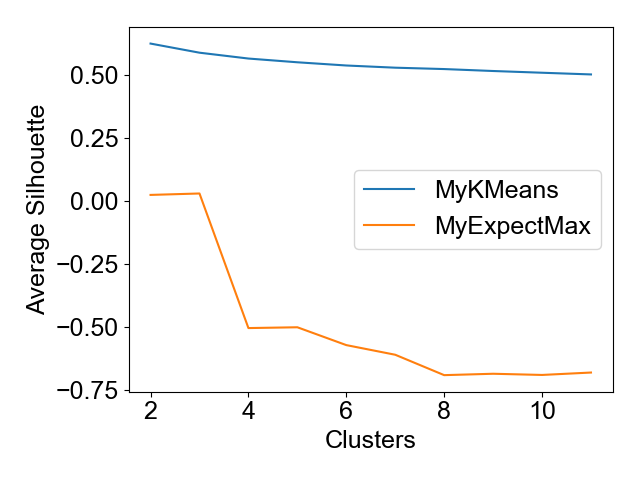
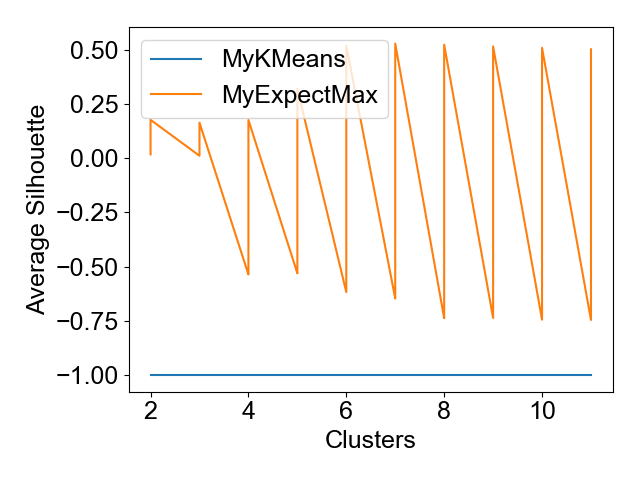
Run a bunch of cluster_std values

diff --git a/main.py b/main.py
@@ -57,12 +57,13 @@ full = pd.concat([train, test])
 y = np.array(train.loc[:,target])
 X = np.array(train.drop(target, axis=1))
 
-# X, y = make_blobs(
-#     centers=6,
-#     n_features=2,
-#     n_samples=1000,
-#     random_state=11
-# )
+#X, y = make_blobs(
+#    centers=6,
+#    n_features=2,
+#    n_samples=1000,
+#    random_state=11
+#)
+#print('score:', silhouette_score(X, y))
 
 np.random.seed(11)
 random_states = np.random.choice(range(1000), size=5, replace=False)
@@ -78,39 +79,40 @@ cluster_counts = []
 total_start_time = time.time()
 for n_clusters in range(2, 12):
     best_score = {'MyKMeans': -1, 'MyExpectMax': -1}
-#    for random_state in [372]:
-    for random_state in random_states:
-        clusterers = [
-            MyKMeans(data=X, n_clusters=n_clusters, random_state=random_state),
-            MyExpectMax(data=X, n_clusters=n_clusters, random_state=random_state)
-        ]
+    for cluster_std in [0.5, 1, 2, 5, 10, 100]:
+        for random_state in random_states:
+            clusterers = [
+#                MyKMeans(data=X, n_clusters=n_clusters, random_state=random_state),
+                MyExpectMax(data=X, n_clusters=n_clusters, random_state=random_state, cluster_std=cluster_std)
+            ]
 
-        for clusterer in clusterers:
-            start_time = time.time()
-            cluster_labels, centers, iters = clusterer.run()
-            elapsed = round(time.time() - start_time, 3)
-            score = silhouette_score(X, cluster_labels)
+            for clusterer in clusterers:
+                start_time = time.time()
+                cluster_labels, centers, iters = clusterer.run()
+                elapsed = round(time.time() - start_time, 3)
+                score = silhouette_score(X, cluster_labels)
 
-            alg = clusterer.__class__.__name__
+                alg = clusterer.__class__.__name__
 
-#            scatter_stuff(X, cluster_labels, centers, alg)
+#                scatter_stuff(X, cluster_labels, centers, alg)
 
-            if score > metrics[alg]['score'] or \
-               (score == metrics[alg]['score'] and \
-               (iters < metrics[alg]['iters'] or elapsed < metrics[alg]['elapsed'])):
-                metrics[alg]['score'] = score
-                metrics[alg]['n_clusters'] = n_clusters
-                metrics[alg]['random_state'] = random_state
-                metrics[alg]['iters'] = iters
-                metrics[alg]['elapsed'] = elapsed
-#                metrics[alg]['error'] = lowest_label_error(cluster_labels, y)
+                if score > metrics[alg]['score'] or \
+                   (score == metrics[alg]['score'] and \
+                   (iters < metrics[alg]['iters'] or elapsed < metrics[alg]['elapsed'])):
+                    metrics[alg]['score'] = score
+                    metrics[alg]['n_clusters'] = n_clusters
+                    metrics[alg]['random_state'] = random_state
+                    metrics[alg]['iters'] = iters
+                    metrics[alg]['elapsed'] = elapsed
+                    metrics[alg]['cluster_std'] = cluster_std
+    #                metrics[alg]['error'] = lowest_label_error(cluster_labels, y)
 
-            if score > best_score[alg]:
-                best_score[alg] = score
+                if score > best_score[alg]:
+                    best_score[alg] = score
 
-    k_means_scores.append(best_score['MyKMeans'])
-    expexct_max_scores.append(best_score['MyExpectMax'])
-    cluster_counts.append(n_clusters)
+        k_means_scores.append(best_score['MyKMeans'])
+        expexct_max_scores.append(best_score['MyExpectMax'])
+        cluster_counts.append(n_clusters)
 
 print('total_elapsed:', time.time() - total_start_time)
 print('k_means_scores:', k_means_scores)
